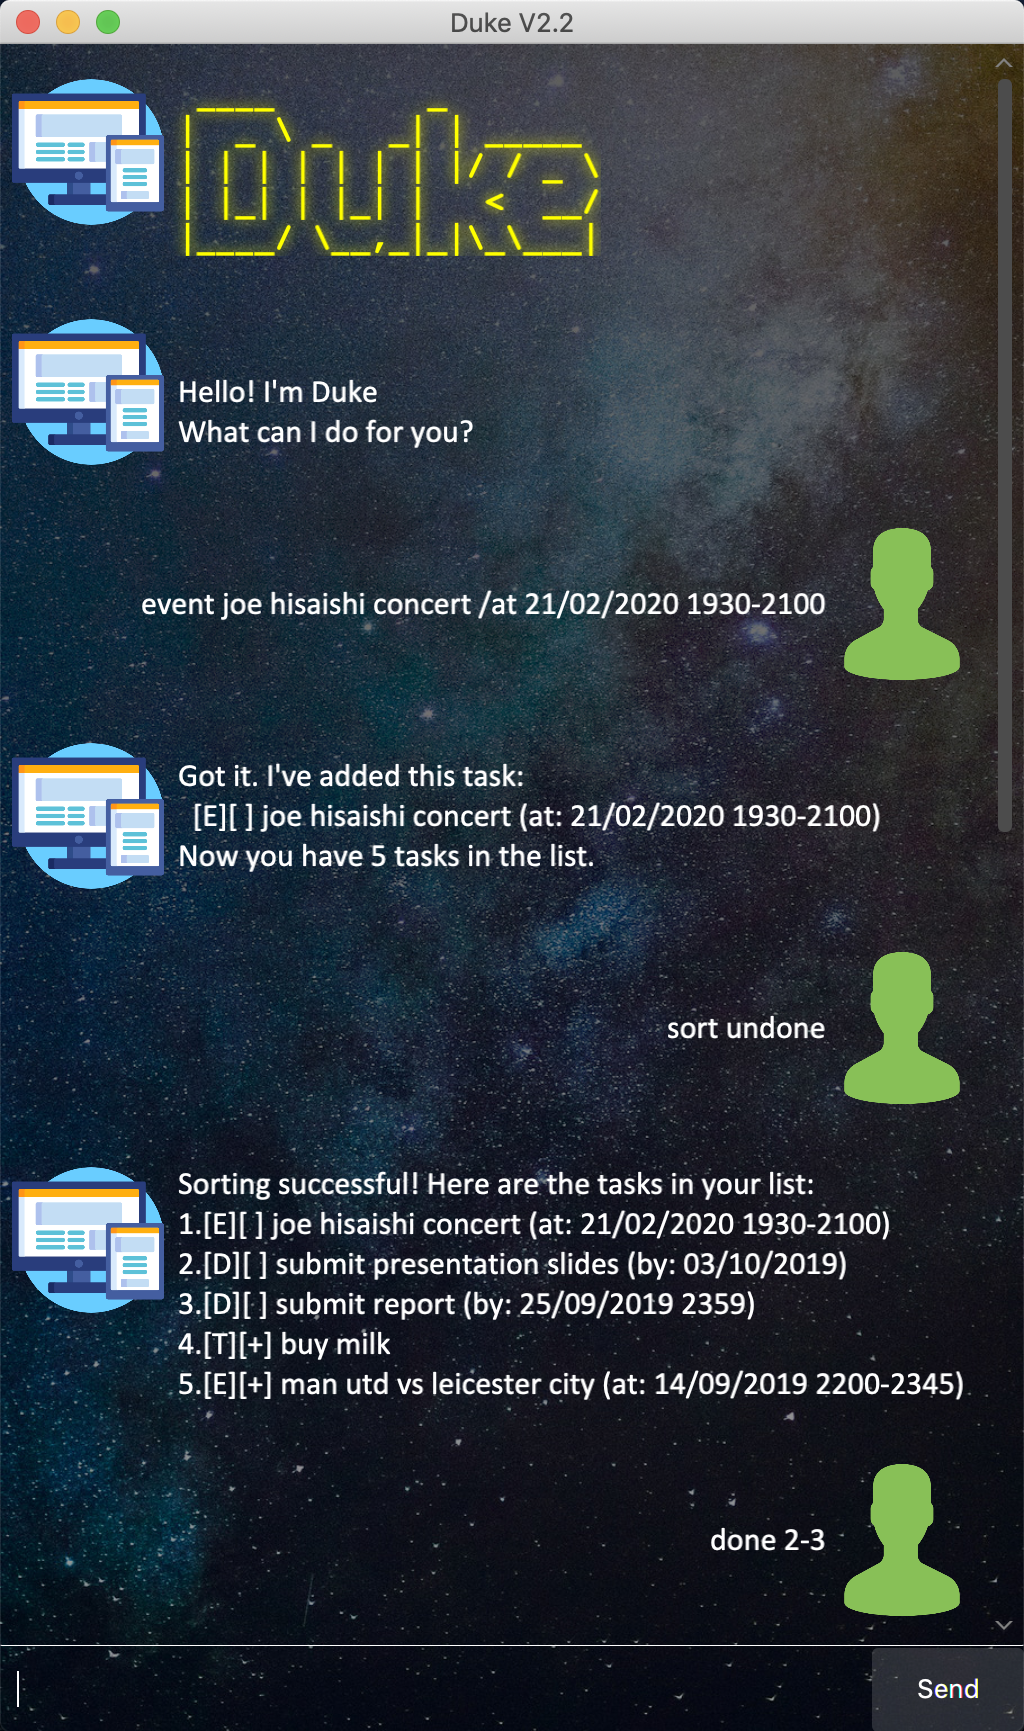
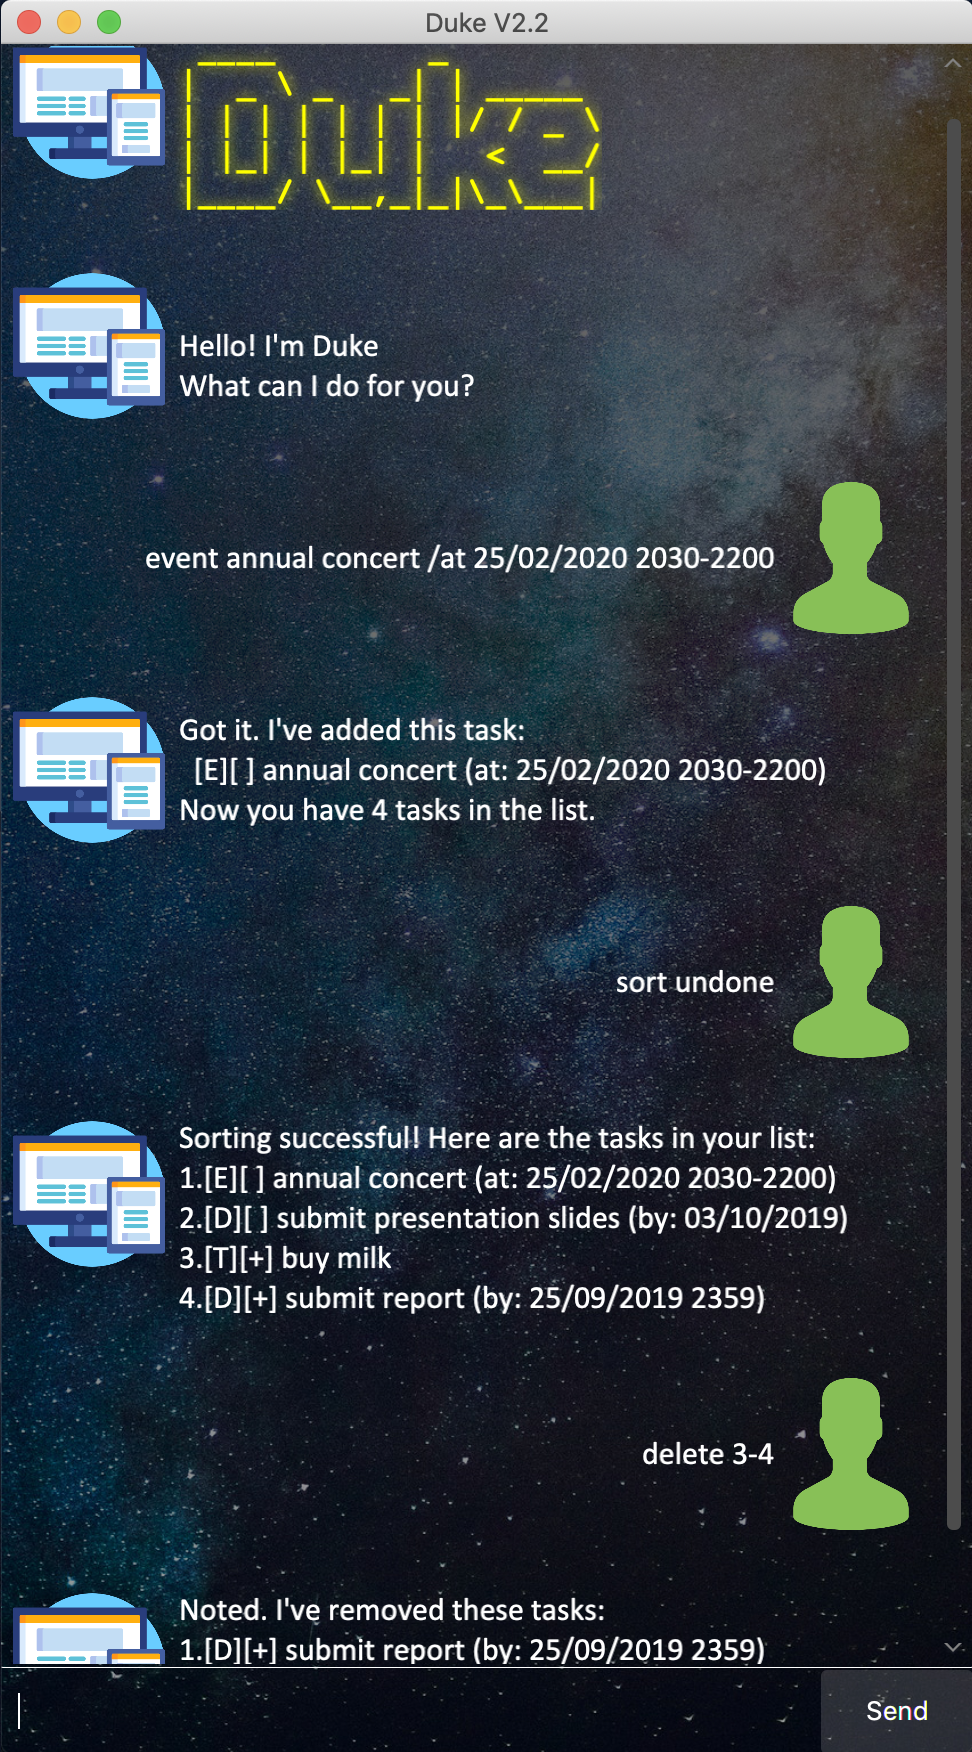
Update tasklists in user guide and screenshots to include only generic tasks.

diff --git a/docs/README.md b/docs/README.md
@@ -177,7 +177,7 @@ Expected outcome:
 Nice! I've marked these tasks as done:
 1.[E][+] concert (at: 21/02/2019 1500-1700)
 2.[D][+] submit report (by: 25/09/2019)
-3.[E][+] joe hisaishi concert (at: 21/02/2020 1930-2100)
+3.[E][+] annual concert (at: 25/02/2020 2000-2200)
 ```
 
 ### `event` - Adds an event into the tasklist.
@@ -188,13 +188,13 @@ Requires input to be in the format `event [task] /at [DD/MM/YYYY] [HHMM]`, where
 
 Example of usage: 
 
-`event joe hisaishi concert /at 21/02/2020 1930-2100`
+`event annual concert /at 21/02/2020 1930-2100`
 
 Expected outcome:
 
 ```
 Got it. I've added this task:
-  [E][ ] joe hisaishi concert (at: 21/02/2020 1930-2100)
+  [E][ ] annual concert (at: 25/02/2020 2000-2200)
 Now you have 5 tasks in the list.
 ```
 
@@ -269,7 +269,7 @@ Here are the tasks in your list:
 2.[E][ ] concert (at: 21/02/2019 1500-1700)
 3.[E][ ] football match (at: 20/09/2019 2300-0100)
 4.[D][+] submit report (by: 25/09/2019)
-5.[E][ ] joe hisaishi concert (at: 21/02/2020 1930-2100)
+5.[E][ ] annual concert (at: 25/02/2020 2000-2200)
 6.[T][ ] buy chocolate
 7.[D][ ] submit report on buying and selling (by: 20/09/2019 2359)
 ```
@@ -344,7 +344,7 @@ Expected outcome:
 Sorting successful! Here are the tasks in your list:
 1.[T][ ] buy chocolate
 2.[T][ ] buy milk
-3.[E][ ] joe hisaishi concert (at: 21/02/2020 1930-2100)
+3.[E][ ] annual concert (at: 25/02/2020 2000-2200)
 4.[D][+] submit report (by: 25/09/2019)
 5.[D][ ] submit report on buying and selling (by: 20/09/2019 2359)
 6.[E][ ] football match (at: 20/09/2019 2300-0100)
